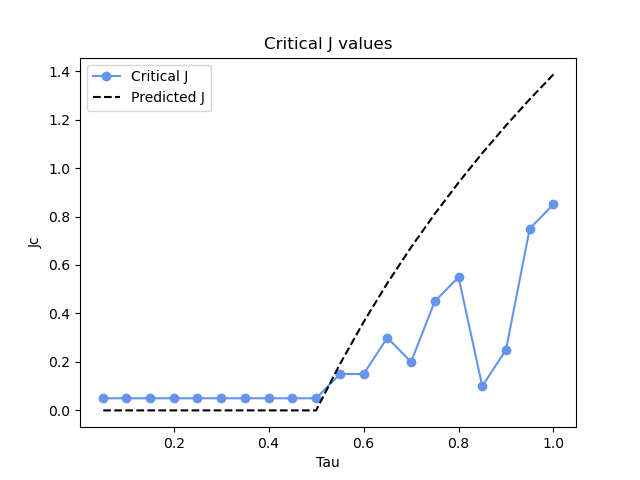
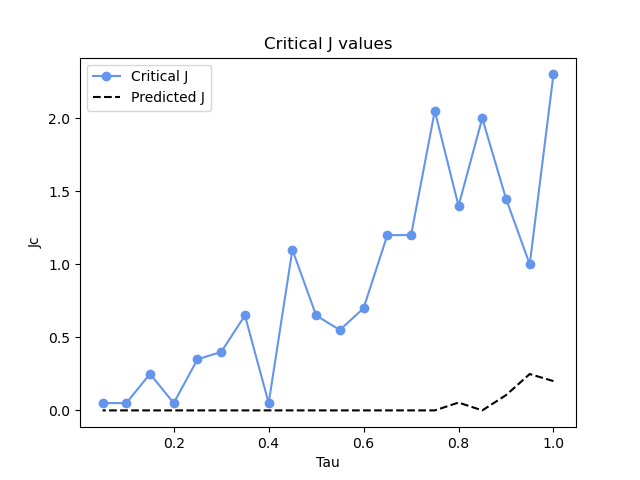
fix simple percolation

diff --git a/src/percolation.py b/src/percolation.py
@@ -6,7 +6,7 @@ from src.utils import *
 
 
 # TODO Fare test per tipo di grafo, media dei tau, plottare distribuzione dei tau
-def simple_tau_percolation(G: nx.Graph, iterations: int) -> dict:
+def simple_tau_percolation(G: nx.Graph, iterations: int) -> float:
     """
     Update the values of tau parameters associated with the nodes in graph G based on simple percolation.
 
@@ -30,19 +30,19 @@ def simple_tau_percolation(G: nx.Graph, iterations: int) -> dict:
         ct = tau.copy()
         # Iterate over each node in the graph
         for i in G.nodes():
-            m = []
+            m = [1]
             # Iterate over neighbors of the node
             for j in G.neighbors(i):
                 r = np.random.uniform(0, 1)
                 m.append(max(r, ct[j]))
             # Update tau[i] using the minimum of max_values
             tau[i] = min(m)
-            #return the critical tau(min of tau)
+            # return the critical tau(min of tau)
     return min(tau.values())
 
 
 # TODO Fare test per tipo di grafo, per tipo di j iniziale, per tipo di tau, media e distribuzione di j
-def critic_j_percolation(init_j: list, G: nx.Graph, tau: float, T: int) -> float:
+def critic_j_percolation(G: nx.Graph, init_j: float, tau: float, T: int) -> float:
     """
     Calculate the critical J values for percolation.
 
@@ -51,37 +51,38 @@ def critic_j_percolation(init_j: list, G: nx.Graph, tau: float, T: int) -> float
     In the function, I extract r and check if it equals 1.
     J[i] is the minimum value of J that causes node i to become infected.
     Skipping the calculations, I directly move to formula (15), which is the one I want to implement.
-    Ji (t + 1) = max min (Jj(t), (ki/si[Jj(t)]) * ln(rij(t)/τ)).
+    Ji (t + 1) = max min (Jj(t), (-ki/si[Jj(t)]) * ln(rij(t)/τ)).
     si[J] is a function that sums [Jj(t) >= J] for all neighbors.
 
-    :param init_j: Initial J values
     :param G: NetworkX graph
+    :param init_j: Initial J values
     :param tau: Infection probability
     :param T: Number of iterations
     :return: Updated critical J values
     """
 
     # Initialize J values for each node
-    js = {node: init_j[i] for i, node in enumerate(G.nodes())}
+    js = {node: init_j for i, node in enumerate(G.nodes())}
 
     for _ in range(T):
         for i in G.nodes():
-            m = []
+            m = [-200000000]
             k = G.degree(i)
             for j in G.neighbors(i):
                 # Calculate sum term
-                s = sum(1 for k in G.neighbors(i) if js[k] >= js[j])
+                s = sum(1 for n in G.neighbors(i) if js[n] >= js[j])
                 r = np.random.uniform(0, 1)
                 # Calculate min max term
-                m.append(min(js[j], (k / s) * np.log(r / tau)))
+                value = (-(k / s) * np.log(r / tau))
+                m.append(min(js[j], value))
             # Update J with the maximum value calculated
-            G[i]['J'] = max(m)
+            G.nodes[i][j_value] = max(m)
         js = {node: G.nodes[node][j_value] for node in G.nodes()}
     return max(js.values())
 
 
 # TODO Fare test per tipo di grafo, per tipo di j iniziale, per tipo di tau, e per q, media e distribuzione di j
-def multiplex_percolation(init_j: list, tau: float, T: int, PG: nx.Graph, VG: nx.Graph, q: float):
+def multiplex_percolation(init_j: list, tau: float, T: int, PG: nx.Graph, VG: nx.Graph, q: float) -> float:
     """
     Multiplex percolation model
 

diff --git a/src/tests.py b/src/tests.py
@@ -3,8 +3,8 @@ import networkx as nx
 
 from src.config import zero_threshold
 from src.infection import infection, simulated_mean_field_infection, simulated_j_percolation, \
-    simulated_approx_j_percolation, simulated_j_percolation2, simulated_tau_percolation
-from src.plot import plot_critical_j
+    simulated_approx_j_percolation, simulated_j_percolation2, simulated_tau_percolation, get_percentage_graph_degree
+from src.plot import plot_critical_j, plot_critical_t
 from src.percolation import critic_j_percolation, simple_tau_percolation
 from src.utils import *
 
@@ -52,7 +52,7 @@ def mean_field_critical_j_test(G: nx.Graph, c: float, T: int, ts: np.array, js: 
     """
 
     # Calculate the average degree of the graph
-    k = int(sum(d for n, d in G.degree()) / G.number_of_nodes())
+    k = get_percentage_graph_degree(G)
 
     results = {t_test: [], j_test: [], j_pred: []}
     for t in reversed(ts):
@@ -70,27 +70,28 @@ def mean_field_critical_j_test(G: nx.Graph, c: float, T: int, ts: np.array, js: 
     plot_critical_j(results, file=mean_field_jc_plot)
 
 
-def simple_perc_test(G:nx.Graph, T:int, ts:np.array):
+def simple_perc_test(G: nx.Graph, T: int, ts: np.array):
     """
     Get the value of tau_critical
     :param G: graph
-    :param c: initial percentage of infected nodes
     :param T: iteration
     :param ts: values of tau
     :return: return the critical tau values
     """
-    results = {t_test: []}
-    t_pred = simple_tau_percolation(G.copy(), iterations= 100)
-    print(f"Critical tau prediction: {t_pred}")
+    results = {t_test: [], t_pred: []}
+    tc_pred = simple_tau_percolation(G.copy(), iterations=T)
+    print(f"Critical tau prediction: {tc_pred}")
     for t in reversed(ts):
         print(f"t: {round(t,2)}")
-        v = simulated_tau_percolation(G.copy(), T, tau= t)
+        v = simulated_tau_percolation(G.copy(), T, tau=t)
         print(f"Valore di c: {v}")
         if v <= zero_threshold:
             results[t_test].append(t)
+            results[t_pred].append(tc_pred)
             break
     print("--------------------------------------------------", end="\n\n")
-    print(f"critical tau: {results}")
+    plot_critical_t(results, file=critical_t_plot)
+
 
 def not_approx_critical_j_test(G: nx.Graph, c: float, T: int, ts: np.array, js: np.array):
     """
@@ -105,7 +106,7 @@ def not_approx_critical_j_test(G: nx.Graph, c: float, T: int, ts: np.array, js: 
     """
 
     # Calculate the average degree of the graph
-    k = int(sum(d for n, d in G.degree()) / G.number_of_nodes())
+    k = get_percentage_graph_degree(G)
 
     results = {t_test: [], j_test: [], j_pred: []}
     for t in reversed(ts):
@@ -166,13 +167,10 @@ def critical_j_test_percolation(G: nx.Graph, c: float, T: int, ts: np.array, js:
     :return: return the critical J values
     """
 
-    # Calculate the average degree of the graph
-    k = int(sum(d for n, d in G.degree()) / G.number_of_nodes())
-    init_j = [0.5]*G.number_of_nodes()
-
+    init_j = 0
     results = {t_test: [], j_test: [], j_pred: []}
     for t in reversed(ts):
-        jc_pred = critic_j_percolation(init_j,G,t,100)
+        jc_pred = critic_j_percolation(G, init_j, t, T)
         print(f"Critical J prediction: {jc_pred}")
         for j in js:
             print(f"t: {round(t,2)}, j: {round(j,2)}")

diff --git a/src/infection.py b/src/infection.py
@@ -63,6 +63,16 @@ def get_infected_neighbors(G: nx.Graph, node: int) -> int:
     return n
 
 
+def get_percentage_graph_degree(G: nx.Graph) -> int:
+    """
+    Compute the average degree of the graph G
+
+    :param G: graph
+    :return: the percentage of the graph degree
+    """
+    return int(sum(d for n, d in G.degree()) / G.number_of_nodes())
+
+
 def update_risk(G: nx.Graph, J: float, t: float) -> None:
     """
     Function to evaluate the risk perception of each node in the graph G
@@ -217,6 +227,7 @@ def simulated_approx_j_percolation(G: nx.Graph, tau: float, J: float, c: float, 
         G = cG.copy()
     return c
 
+
 def simulated_j_percolation2(G: nx.Graph, tau: float, J: float, c: float, T: int) -> float:
     """
     Simulated J percolation with approximation
@@ -275,21 +286,14 @@ def simulated_j_percolation(G: nx.Graph, tau: float, J: float, c: float, T: int)
     return c
 
 
-#tau > np.random.uniform(0, 1) and G.nodes[n][state] == infected for n in G.neighbors(node)) else healthy
-def simulated_tau_percolation(G:nx.graph,T:int, tau:float):
-    cG = G.copy()
+def simulated_tau_percolation(G: nx.graph, T: int, tau: float) -> float:
+    c = 0
     for _ in range(T):
+        cG = G.copy()
         for node in G.nodes:
-            r = np.random.uniform(0,1)
-            if tau > r  and (G.nodes[n][state] == infected for n in G.neighbors(node)):
-                cG.nodes[node][state] = infected
+            if any(tau > np.random.uniform(0, 1) and cG.nodes[n][state] == infected for n in cG.neighbors(node)):
+                G.nodes[node][state] = infected
             else:
-                cG.nodes[node][state] = healthy
-        c = get_infected(cG) / G.number_of_nodes()
-        G = cG.copy()
-    return c    
-
-            
-
-    
-    
+                G.nodes[node][state] = healthy
+        c = get_infected(G) / G.number_of_nodes()
+    return c

diff --git a/src/plot.py b/src/plot.py
@@ -75,4 +75,22 @@ def plot_critical_j(critics: dict, file: str, prediction: bool = True) -> None:
     plt.savefig(path_plots + file)
     plt.show()
 
+
+def plot_critical_t(critics: dict, file: str, prediction: bool = True) -> None:
+    """
+    Plot the critical tau values
+
+    :param critics: dict of critical values
+    :param file: file name
+    :param prediction: if the prediction should be plotted
+    """
+    plt.title("Critical Tau values")
+    plt.plot(critics[t_test], critics[t_test], label="Critical Tau", color=blue, marker="o", linestyle="-")
+    if prediction:
+        plt.plot(critics[t_test], critics[t_pred], label="Predicted Tau", color=black, marker="", linestyle="--")
+    plt.xlabel("Tc")
+    plt.ylabel("Tc")
+    plt.legend()
+    plt.savefig(path_plots + file)
+    plt.show()
     

diff --git a/main.py b/main.py
@@ -15,8 +15,8 @@ def main():
     # mean_field_critical_j_test(PG, init_infect, iterations, ts, js)
     # not_approx_critical_j_test(PG, init_infect, iterations, ts, js)
     # approx_critical_j_test(PG, init_infect, iterations, ts, js)
-    # critical_j_test_percolation(PG, init_infect, iterations, ts, js) da rivedere, problemi quando nodi non hanno vicini
-    simple_perc_test(PG,iterations,ts)
+    critical_j_test_percolation(PG, init_infect, iterations, ts, js)  # da rivedere, problemi quando nodi non hanno vicini
+    # simple_perc_test(PG, iterations, ts)
 
 
 if __name__ == "__main__":

diff --git a/src/utils.py b/src/utils.py
@@ -9,6 +9,7 @@ j_value = "J"
 # Constants for the tests
 t_test = "t_risk"
 j_test = "j_risk"
+t_pred = "t_pred"
 j_pred = "j_pred"
 
 # Path plotting
@@ -19,6 +20,7 @@ mean_field_jc_plot = "mf_critical_j.png"
 not_approx_jc_plot = "not_approx_critical_j.png"
 approx_plot_jc_plot = "approx_critical_j.png"
 critical_j_plot = "critical_j.png"
+critical_t_plot = "critical_t.png"
 
 # Colors for the graph
 blue = "cornflowerblue"

diff --git a/src/config.py b/src/config.py
@@ -9,7 +9,7 @@ iterations = 1000  # Iteration
 zero_threshold = 1e-6  # Zero threshold
 
 # Values for the graph
-n_nodes = 20  # Number of nodes
+n_nodes = 5  # Number of nodes
 m = 4  # Number of edges to attach from a new node
 init_infect = 1  # Initial infected nodes
 percentage_init_infect = 0.5  # Initial percentage of infected nodes
